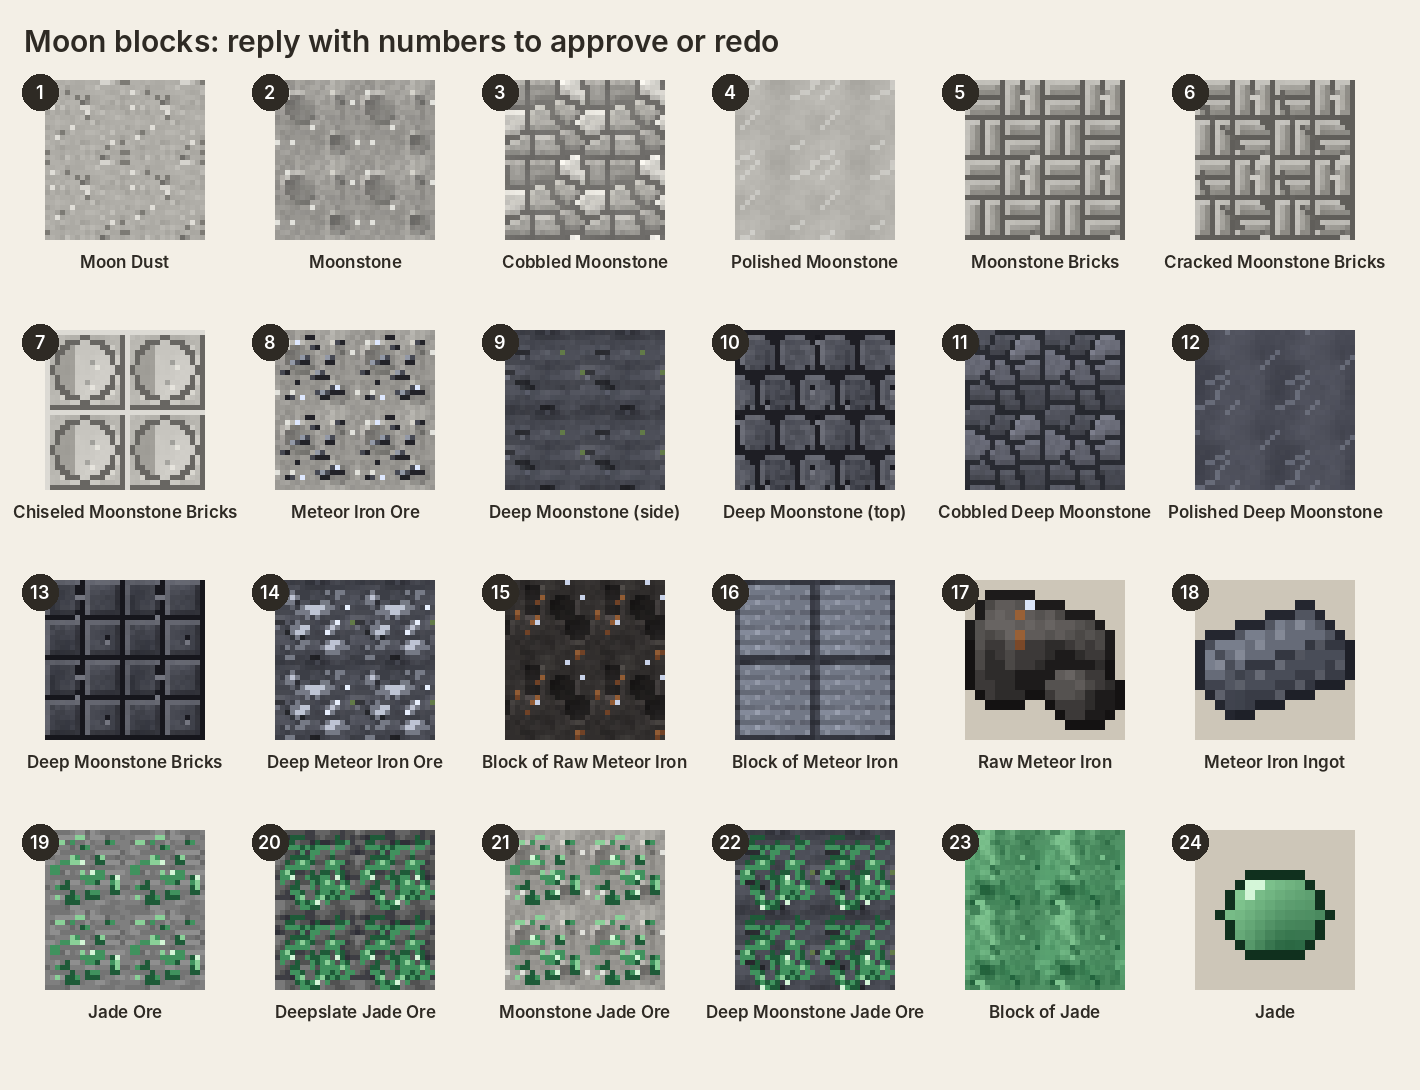
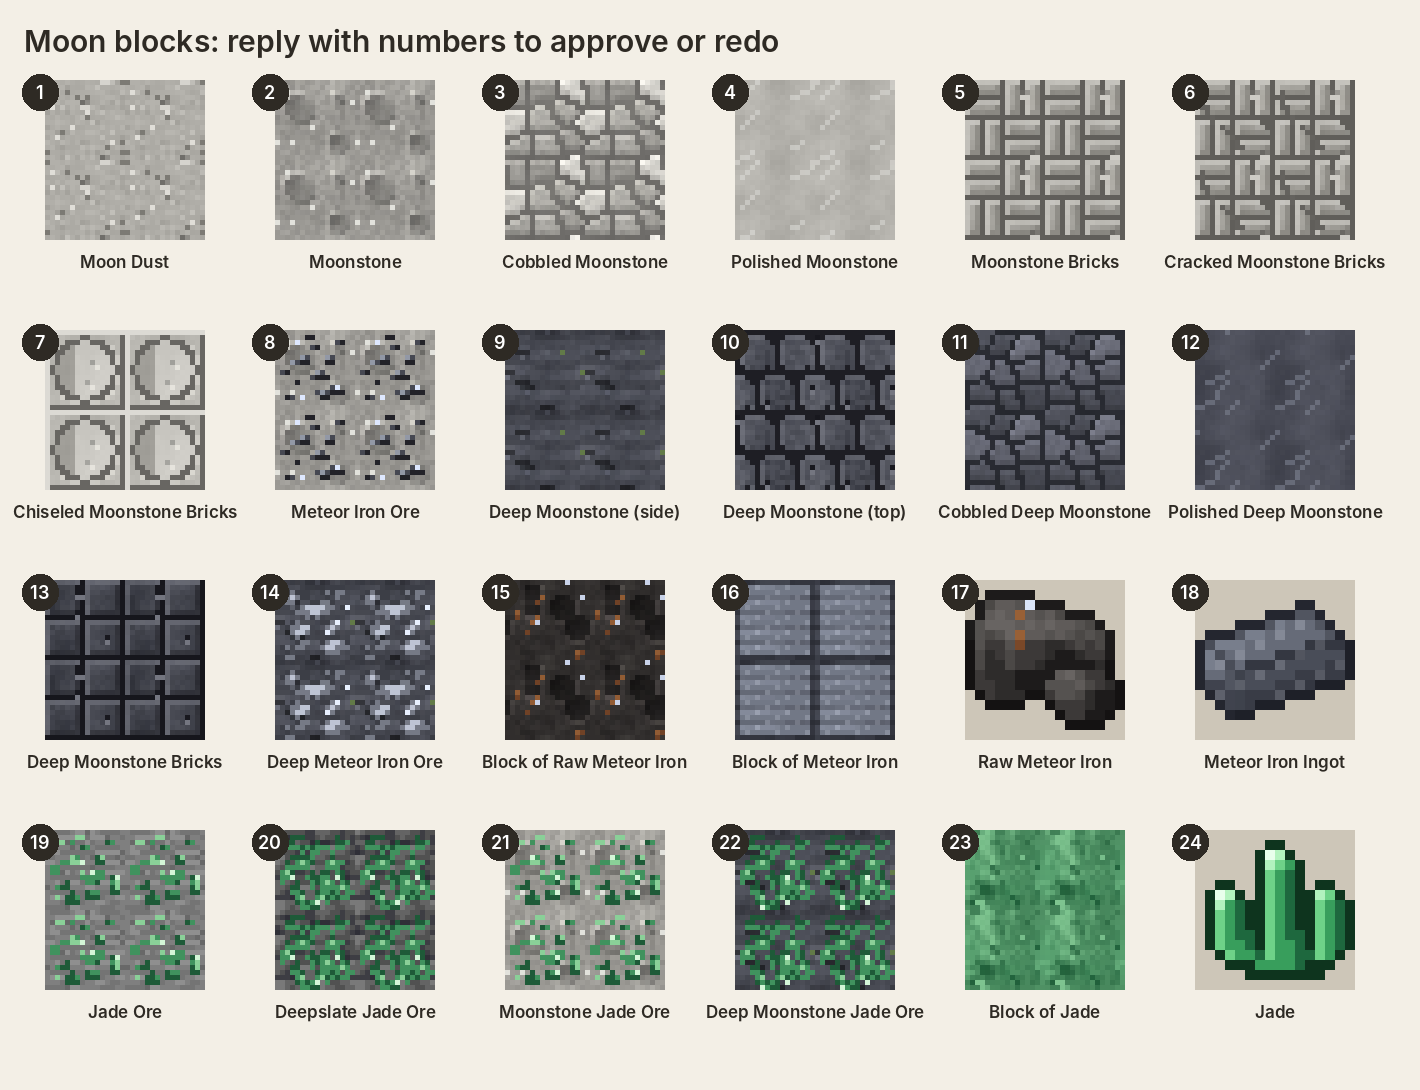
Skylands portal turns cloud-white on sky blue; glider removed (elytras exist); jade gem becomes a green crystal cluster
Claude-Session: https://claude.ai/code/session_01M5QtgiQGYPBXfdb72XCowG

Changed region(s): [[0.8366, 0.7798, 0.9606, 0.9046]]

diff --git a/tools/skylands.py b/tools/skylands.py
@@ -8,7 +8,7 @@ import moon_assets as M
 
 HERE = os.path.dirname(os.path.abspath(__file__)); RES = M.RES; T = os.path.join(HERE, "templates", "skylands")
 TEX = os.path.join(M.A, "textures", "block")
-ITEM_LANG = {"zephyrite": "Zephyrite", "glider": "Glider"}
+ITEM_LANG = {"zephyrite": "Zephyrite"}
 LANG = {"zephyrite_ore": "Zephyrite Ore", "zephyrite_block": "Block of Zephyrite", "skystone": "Skystone", "cloud": "Cloud", "blue_cloud": "Blue Cloud", "storm_cloud": "Storm Cloud", "sky_portal": "Skylands Portal"}
 
 def lang_entries():
@@ -33,13 +33,15 @@ def skystone():
     return img
 
 def portal_tex():
-    """Vanilla's nether-portal swirl (all frames), recoloured to a bright sky blue."""
+    """Vanilla's portal swirl (all frames), recoloured to a cloud and sky: bright whorls of cloud-white over sky blue."""
     im = Image.open(os.path.join(T, "nether_portal.png")).convert("RGBA"); px = im.load()
+    sky, cloud = (70, 150, 240), (252, 254, 255)
+    vals = sorted((r + g + b) / 3 for r, g, b, a in im.get_flattened_data()); lo, hi = vals[len(vals) // 20], vals[-len(vals) // 20]
     for y in range(im.height):
         for x in range(im.width):
             r, g, b, a = px[x, y]
-            v = (r + g + b) / 3 / 255
-            px[x, y] = (int(90 + 140 * v), int(150 + 100 * v), 255, a)
+            v = min(1, max(0, ((r + g + b) / 3 - lo) / max(1, hi - lo))) ** 1.4      # stretched: deep sky between bright cloud whorls
+            px[x, y] = tuple(int(sky[k] + (cloud[k] - sky[k]) * v) for k in range(3)) + (max(a, 200),)
     return im
 
 Z_DARK, Z_MID, Z_LIGHT, Z_GLINT = (60, 150, 170), (110, 210, 222), (180, 244, 246), (244, 255, 255)
@@ -57,23 +59,6 @@ ZEPH = [   # a zephyrite shard: a pale cyan crystal, lit from the top left
     "..ommmddo.......",
     "...oddoo........",
     "....oo..........",
-    "................",
-    "................",
-    "................"]
-GLIDE = [  # a little hang glider: a pale cloth wing on a sky-willow frame
-    "................",
-    "................",
-    ".......ff.......",
-    "......fwwf......",
-    ".....fwwwwf.....",
-    "....fwwccwwf....",
-    "...fwwwccwwwf...",
-    "..fwwwwccwwwwf..",
-    ".fffffffffffffff",
-    ".......ff.......",
-    ".......ff.......",
-    "......ffff......",
-    "................",
     "................",
     "................",
     "................"]
@@ -100,7 +85,6 @@ def zephyrite_textures():
     M.frame(blk, Z_GLINT, Z_DARK).save(os.path.join(TEX, "zephyrite_block.png"))
     IT = os.path.join(M.A, "textures", "item")
     sprite(ZEPH, {"o": (30, 80, 96), "d": Z_DARK, "m": Z_MID, "l": Z_LIGHT, "h": Z_GLINT}).save(os.path.join(IT, "zephyrite.png"))
-    sprite(GLIDE, {"f": (150, 156, 170), "w": (236, 240, 246), "c": Z_MID}).save(os.path.join(IT, "glider.png"))
 
 def blocks():
     zephyrite_textures()
@@ -118,8 +102,6 @@ def blocks():
         "key": {"#": "ryancraft:zephyrite"}, "result": {"id": "ryancraft:zephyrite_block", "count": 1}})
     M.w(R + "zephyrite_from_block.json", {"type": "minecraft:crafting_shapeless", "category": "misc", "ingredients": ["ryancraft:zephyrite_block"],
         "result": {"id": "ryancraft:zephyrite", "count": 9}})
-    M.w(R + "glider.json", {"type": "minecraft:crafting_shaped", "category": "equipment", "pattern": ["ZZZ", "LLL", " S "],
-        "key": {"Z": "ryancraft:zephyrite", "L": "minecraft:leather", "S": "ryancraft:sky_willow_planks"}, "result": {"id": "ryancraft:glider", "count": 1}})
     M.w(R + "zephyrite_from_ore.json", {"type": "minecraft:smelting", "category": "misc", "ingredient": "ryancraft:zephyrite_ore",
         "result": {"id": "ryancraft:zephyrite"}, "experience": 0.8, "cookingtime": 200})
     M.add_tag("data/minecraft/tags/block/mineable/pickaxe.json", ["ryancraft:zephyrite_ore", "ryancraft:zephyrite_block"])

diff --git a/src/main/java/com/ryancraft/sky/Skylands.java b/src/main/java/com/ryancraft/sky/Skylands.java
@@ -37,7 +37,7 @@ public final class Skylands {
     public static final List<Item> ITEMS = new ArrayList<>();
 
     public static final Block SKYSTONE, CLOUD, BLUE_CLOUD, STORM_CLOUD, SKY_PORTAL, ZEPHYRITE_ORE, ZEPHYRITE_BLOCK;
-    public static final Item ZEPHYRITE, GLIDER;
+    public static final Item ZEPHYRITE;
 
     static {
         SKYSTONE = block("skystone", Block::new, BlockBehaviour.Properties.of().mapColor(MapColor.ICE).requiresCorrectToolForDrops().strength(1.5f, 6.0f), true);
@@ -50,7 +50,6 @@ public final class Skylands {
         ZEPHYRITE_BLOCK = block("zephyrite_block", Block::new, BlockBehaviour.Properties.of().mapColor(MapColor.DIAMOND).requiresCorrectToolForDrops()
                 .strength(3.0f, 4.0f).sound(SoundType.AMETHYST), true);
         ZEPHYRITE = item("zephyrite", new Item.Properties());
-        GLIDER = item("glider", new Item.Properties().stacksTo(1).durability(240));
         SKY_PORTAL = block("sky_portal", SkyPortalBlock::new, BlockBehaviour.Properties.of().noCollision().randomTicks().strength(-1.0f)
                 .sound(SoundType.GLASS).lightLevel(s -> 11).pushReaction(PushReaction.BLOCK), false);
     }
@@ -66,11 +65,6 @@ public final class Skylands {
         ITEMS.add(i); return i;
     }
 
-    /** Holding a glider while falling: count fall damage as gone (the client side does the gliding itself). */
-    public static boolean gliding(net.minecraft.world.entity.player.Player p) {
-        return !p.onGround() && !p.isInWater() && !p.getAbilities().flying && p.getDeltaMovement().y < 0
-                && (p.getMainHandItem().is(GLIDER) || p.getOffhandItem().is(GLIDER));
-    }
 
     private static Block block(String name, Function<BlockBehaviour.Properties, Block> f, BlockBehaviour.Properties props, boolean item) {
         ResourceKey<Block> bk = ResourceKey.create(Registries.BLOCK, RyanCraft.id(name));
@@ -86,16 +80,6 @@ public final class Skylands {
             new SkyCloudFeature(net.minecraft.world.level.levelgen.feature.configurations.BlockStateConfiguration.CODEC));
 
     public static void init() {
-        net.fabricmc.fabric.api.event.lifecycle.v1.ServerTickEvents.END_SERVER_TICK.register(server -> {
-            for (var p : server.getPlayerList().getPlayers()) {
-                if (!gliding(p)) continue;
-                p.resetFallDistance();
-                if (p.tickCount % 20 == 0) {                                                  // a glider wears with use
-                    ItemStack g = p.getMainHandItem().is(GLIDER) ? p.getMainHandItem() : p.getOffhandItem();
-                    g.hurtAndBreak(1, p, p.getMainHandItem().is(GLIDER) ? net.minecraft.world.entity.EquipmentSlot.MAINHAND : net.minecraft.world.entity.EquipmentSlot.OFFHAND);
-                }
-            }
-        });
         ItemGroupEvents.modifyEntriesEvent(CreativeModeTabs.NATURAL_BLOCKS).register(e -> ITEMS.forEach(e::accept));
         // Pour a water bucket into a glowstone frame to light the portal (instead of placing the water)
         UseBlockCallback.EVENT.register((player, level, hand, hit) -> {

diff --git a/src/client/java/com/ryancraft/client/RyanCraftClient.java b/src/client/java/com/ryancraft/client/RyanCraftClient.java
@@ -21,16 +21,6 @@ public class RyanCraftClient implements ClientModInitializer {
 
     @Override
     public void onInitializeClient() {
-        // the glider: falling with one in hand, you sink slowly and drift the way you're looking
-        ClientTickEvents.END_CLIENT_TICK.register(mc -> {
-            var p = mc.player;
-            if (p == null || !com.ryancraft.sky.Skylands.gliding(p)) return;
-            var v = p.getDeltaMovement(); var look = p.getLookAngle();
-            double hx = v.x * 0.92 + look.x * 0.05, hz = v.z * 0.92 + look.z * 0.05;
-            double speed = Math.sqrt(hx * hx + hz * hz), max = 0.55;
-            if (speed > max) { hx *= max / speed; hz *= max / speed; }
-            p.setDeltaMovement(hx, Math.max(v.y, -0.12), hz);
-        });
         ThirstHud.init();
         // winter: our leaves go drab (they can't fall), a dull tint over their colours
         net.fabricmc.fabric.api.client.rendering.v1.ColorProviderRegistry.BLOCK.register((state, level, pos, tint) ->

diff --git a/tools/moon_assets.py b/tools/moon_assets.py
@@ -490,7 +490,8 @@ def textures():
     ore(deepslate_v, dt("deepslate"), dt("deepslate_lapis_ore"), *jade, 81).save(os.path.join(b, "deepslate_jade_ore.png"))
     ore(ms, cb("stone"), cb("lapis_ore"), *jade, 82).save(os.path.join(b, "moonstone_jade_ore.png"))
     ore(deep, dt("deepslate"), dt("deepslate_lapis_ore"), *jade, 83).save(os.path.join(b, "deep_moonstone_jade_ore.png"))
-    jade_gem().save(os.path.join(i, "jade.png"))
+    # the jade gem is hand-drawn (a cluster of three green crystals): tools/templates/jade/jade_item.png
+    Image.open(os.path.join(HERE, "templates", "jade", "jade_item.png")).save(os.path.join(i, "jade.png"))
     jade_block_tex(cb).save(os.path.join(b, "jade_block.png"))
     # meteor iron, all original: an etched meteorite slab, thumbprinted fusion crust, a meteorite lump and a bar
     # the block follows vanilla's iron block (bevelled plate), in the ingot's gunmetal with the same faint band etch
